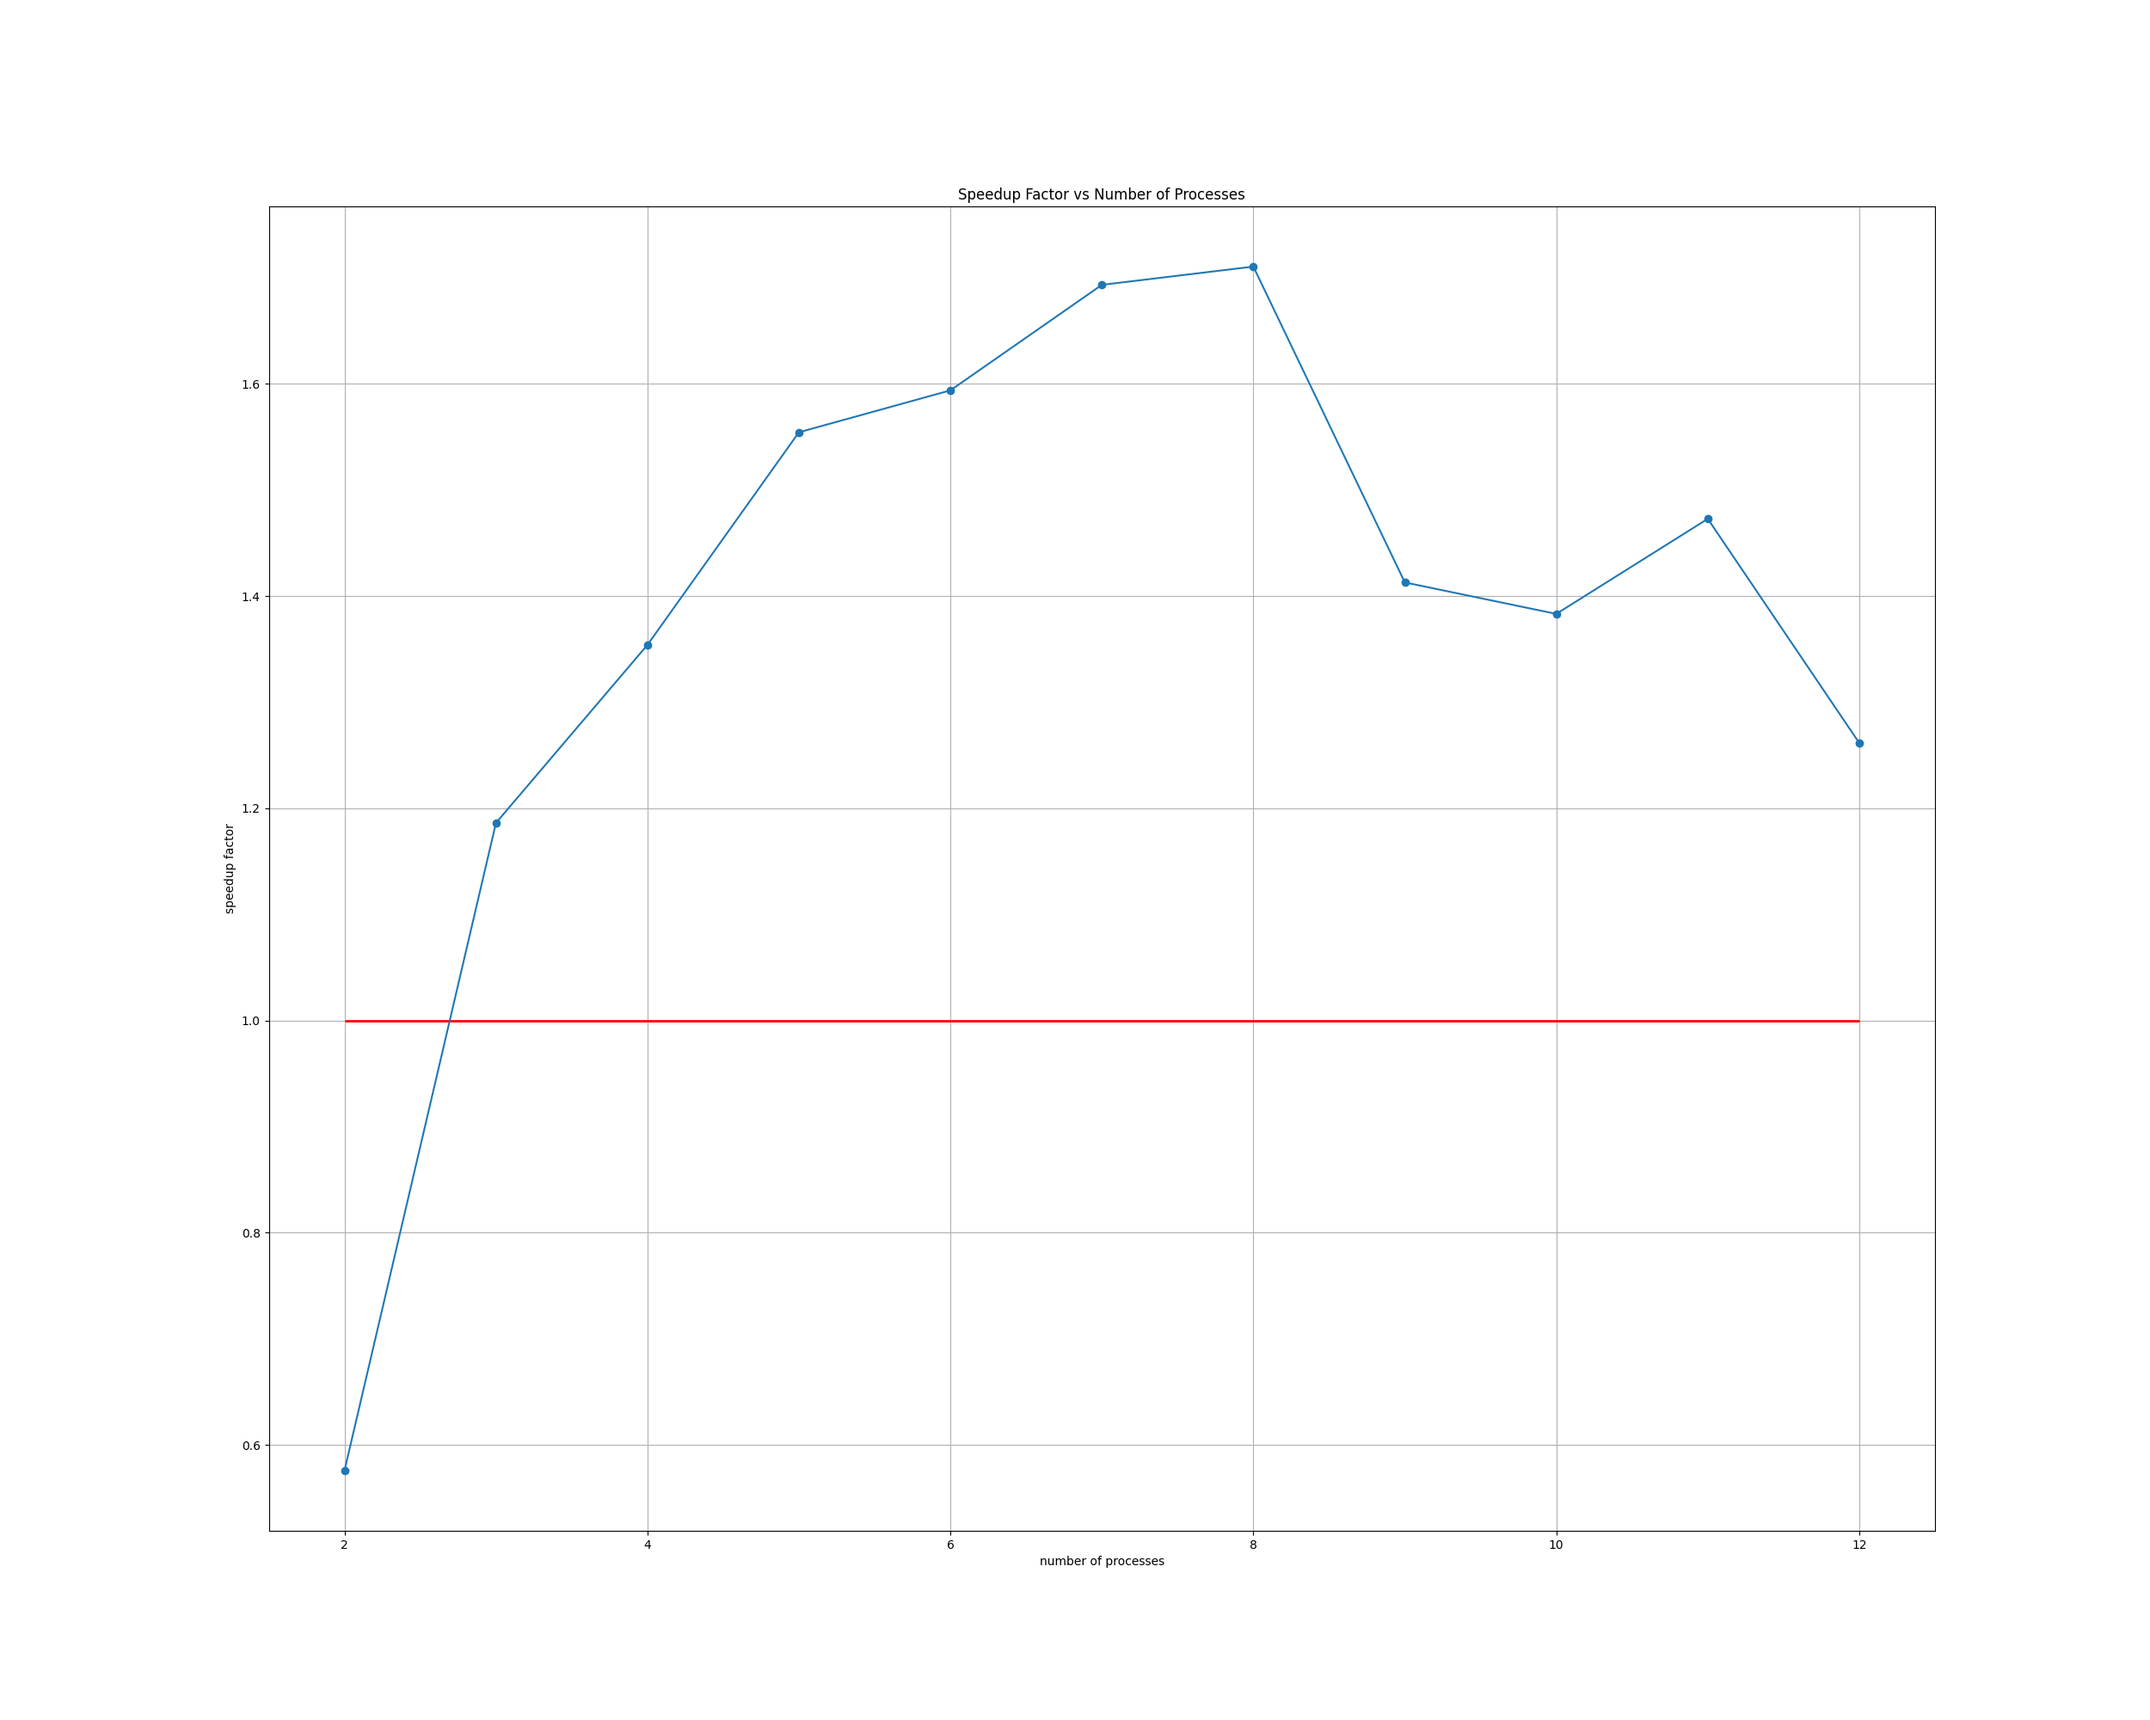
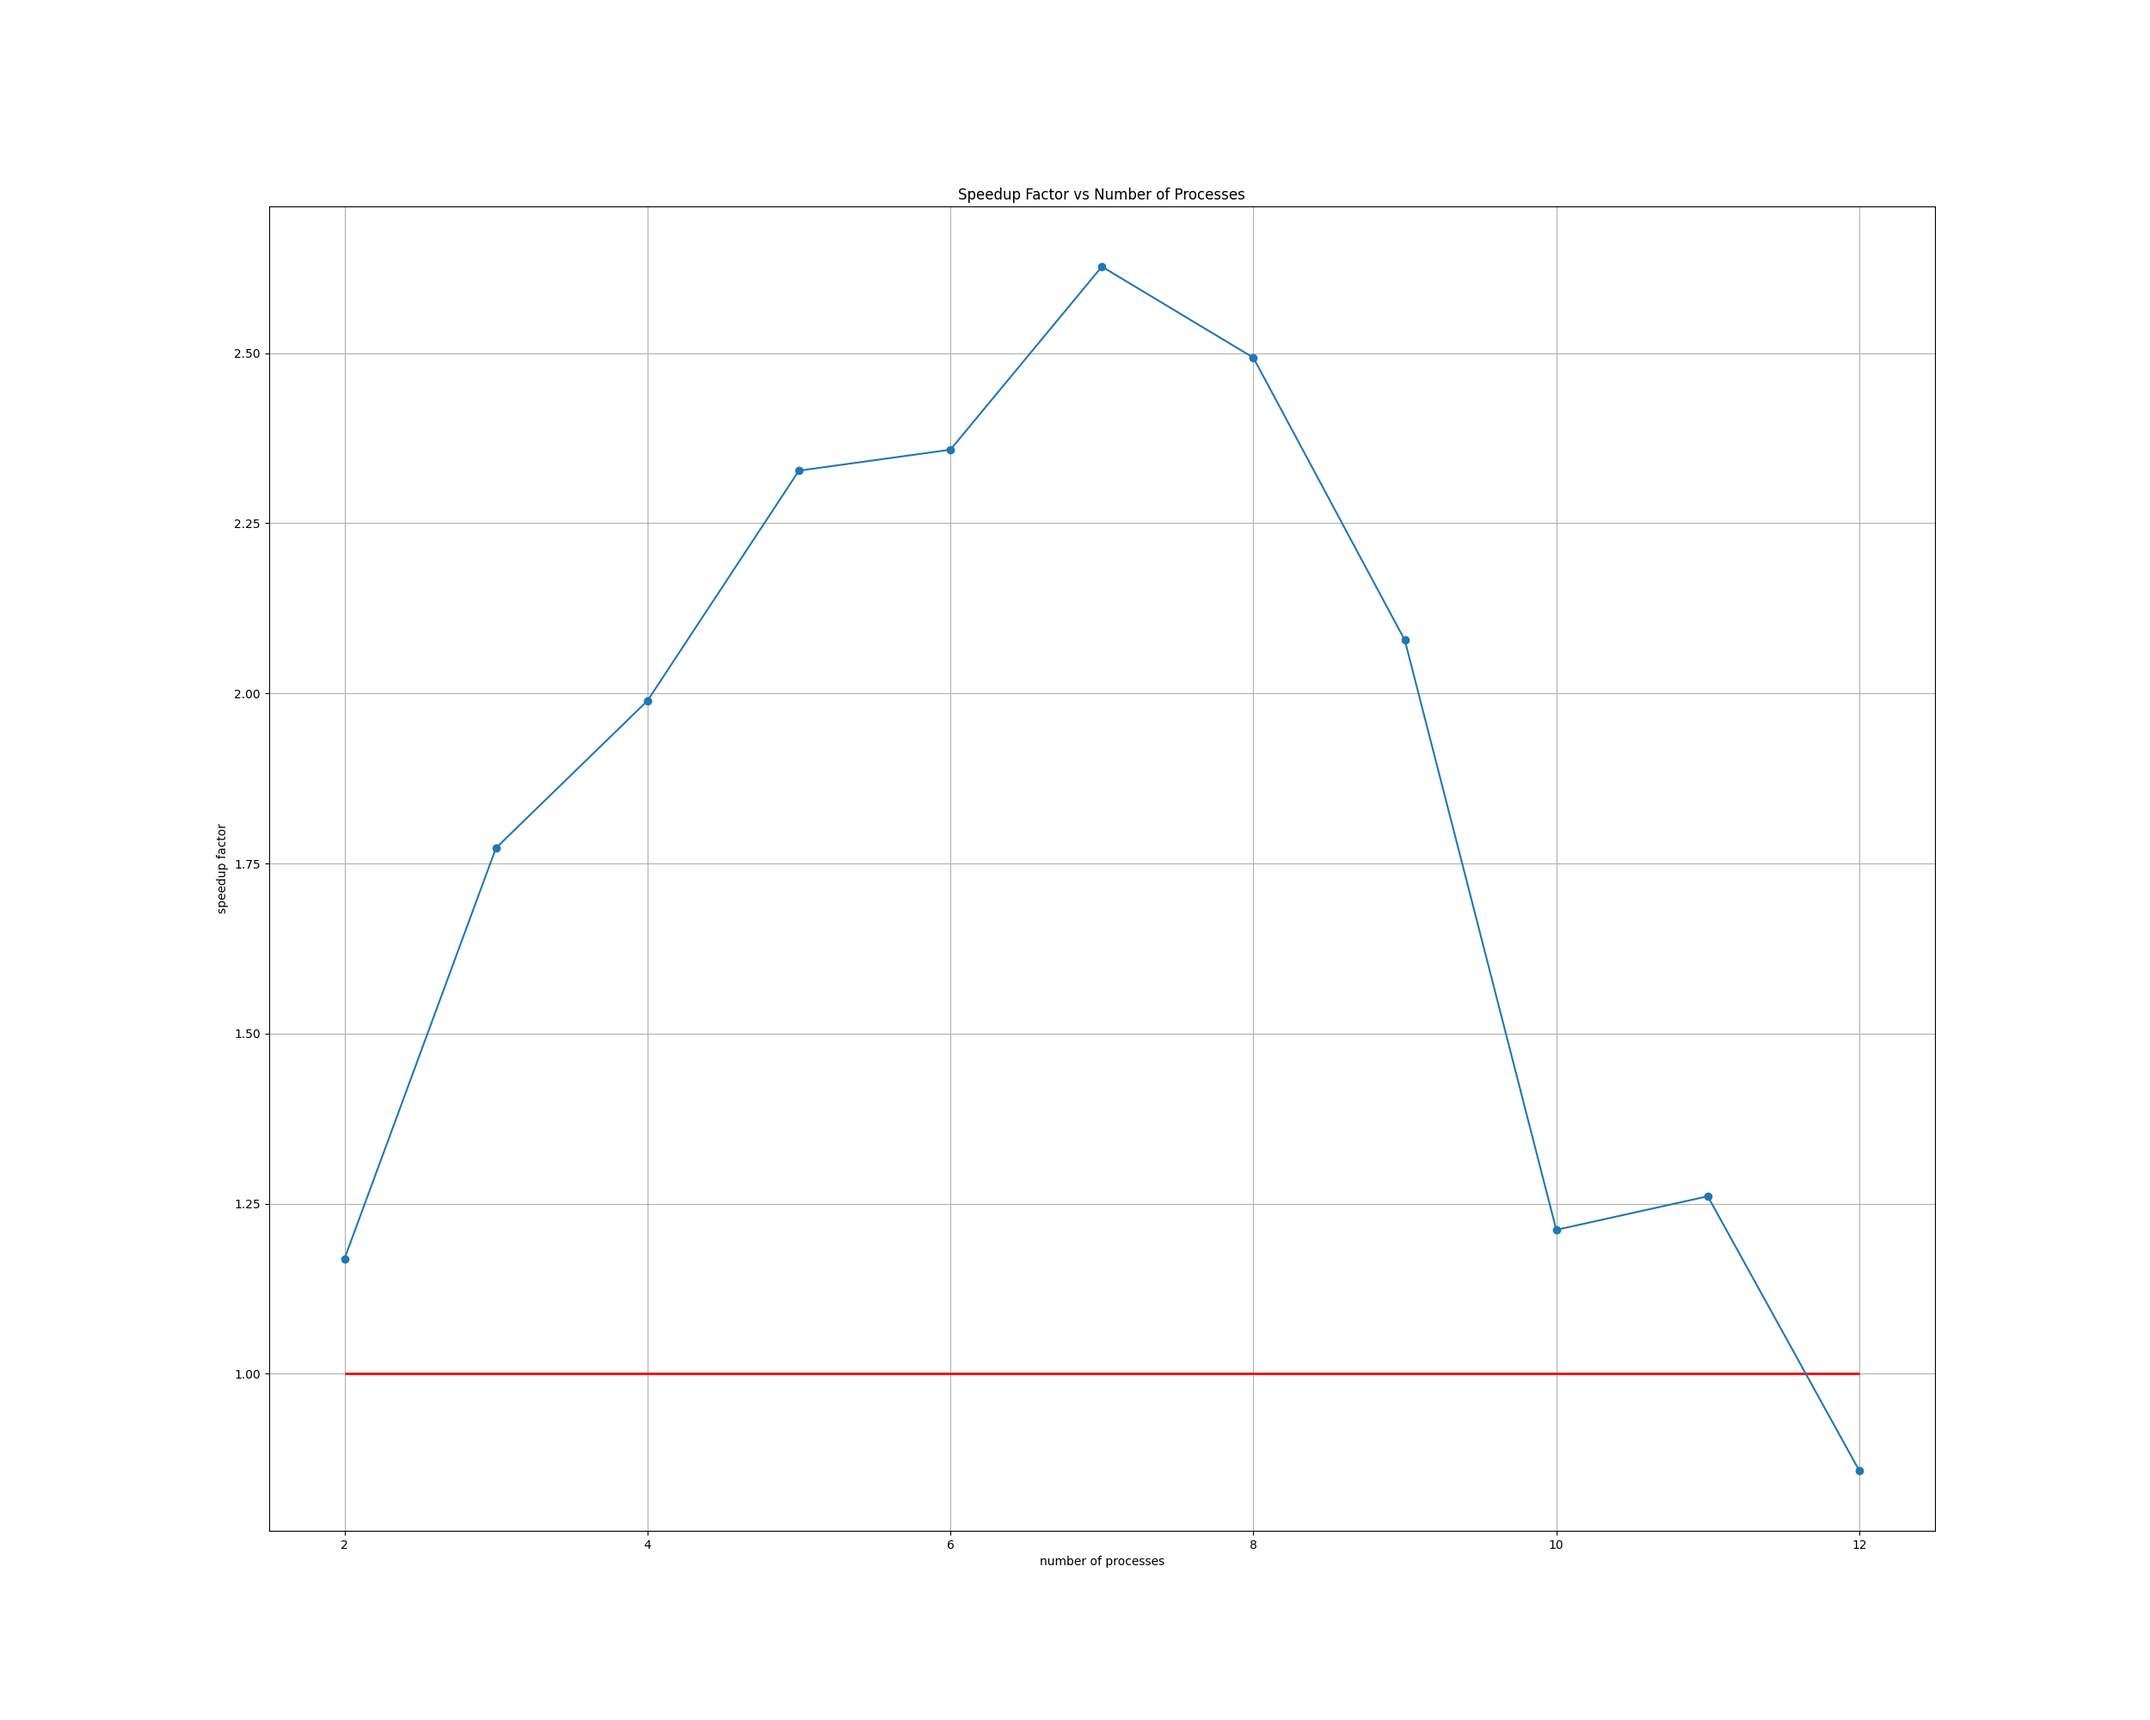
Gather averaged runtimes data in plot.py

diff --git a/Second-Semester/Lab 1/plot.py b/Second-Semester/Lab 1/plot.py
@@ -1,9 +1,31 @@
+#!/bin/python3
+import re
+import subprocess
 import matplotlib.pyplot as plt
 
 
+def get_elapsed_time(cmd):
+    process = subprocess.run(cmd, shell=True, capture_output=True)
+    output = process.stdout.decode('ascii')
+    time_elapsed = re.findall(r'Time elapsed ?([0-9]+.[0-9]+)s\n', output)
+    return float(time_elapsed[0])
+
+
+def average_time(cmd):
+    average = 0.0
+    n = 5
+    for _ in range(n):
+        average += get_elapsed_time(cmd)
+    return average / n
+
+
 x_axis = list(range(2, 13))
-seq_time = 0.009093
-y_axis = list(seq_time / x for x in [0.015795, 0.007666, 0.0067159, 0.00585, 0.005705, 0.0053699, 0.0053159, 0.0064359, 0.00657399, 0.00617399, 0.007208])
+seq_time = 0.0106409
+runtimes = list(average_time(f'./run.sh -not {x}') for x in x_axis)
+y_axis = list(seq_time / runtimes[i] for i in range(len(runtimes)))
+
+print('Runtimes taken for number of processes in range', x_axis)
+print(runtimes)
 
 fig = plt.figure()
 ax = fig.add_subplot(111)
